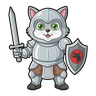
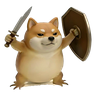
四套吉祥物立绘换成梗形象新版（贴合招财主题）：耄耋猫＝招财猫姿势（举爪招手＋红项圈金铃＋爪下金元宝），咕咕嘎嘎＝企鹅睡衣少女（黑发齐刘海＋项圈挂钥匙小翅膀），小恶魔朵洛＝举爪招涨（举爪＋抱金币＋红色上涨箭头），刀盾骑士＝柴犬头盲盒手办（三角立耳／白眉毛点／黑鼻头／细眼微撇嘴，此前重做时丢了柴犬特征做成了光滑猪鼻，这轮补回）。四套均为 1024 母版 + 256/96 派生，白底抠图后按边缘连通域清理、收边 1px 羽化，透明底 RGBA，深色主题下无白边（刀盾脚下暖调地面反光与白胸毛色域重叠，改按「每列最低橘色毛以下」判定地面，脚爪与胸毛未被误伤）。app.js 同步两条文案（maodiao「

diff --git a/Client/app.js b/Client/app.js
@@ -82,9 +82,9 @@
     // 供选择卡（56px）与彩蛋横幅头像（44px）用——原图 1024/1~2MB，别在这两处引用
     { id: 'sakura',  name: '和服猫耳少女', img: '/img/mascot-sakura-256.png', thumb: '/img/mascot-sakura-96.png', desc: '樱色原配' },
     { id: 'magic',   name: '魔法少女', img: '/img/mascot-magic-256.png', thumb: '/img/mascot-magic-96.png', desc: '夜空原配' },
-    { id: 'maodiao', name: '耄耋猫', img: '/img/mascot-maodiao-256.png', thumb: '/img/mascot-maodiao-96.png', desc: '亏麻了，面无表情' },
+    { id: 'maodiao', name: '耄耋猫', img: '/img/mascot-maodiao-256.png', thumb: '/img/mascot-maodiao-96.png', desc: '亏麻了，也要招财' },
     { id: 'orange',  name: '丑橘猫', img: '/img/mascot-orange-256.png', thumb: '/img/mascot-orange-96.png', desc: '涨了！傻乐' },
-    { id: 'doro',    name: '小恶魔朵洛', img: '/img/mascot-doro-256.png', thumb: '/img/mascot-doro-96.png', desc: 'Doro 味原创同人' },
+    { id: 'doro',    name: '小恶魔朵洛', img: '/img/mascot-doro-256.png', thumb: '/img/mascot-doro-96.png', desc: '举爪招涨' },
     { id: 'duck',    name: '咕咕嘎嘎', img: '/img/mascot-duck-256.png', thumb: '/img/mascot-duck-96.png', desc: 'duck 不服' },
     { id: 'knight',  name: '刀盾骑士', img: '/img/mascot-knight-256.png', thumb: '/img/mascot-knight-96.png', desc: '我的刀！我的盾！' },
   ];
